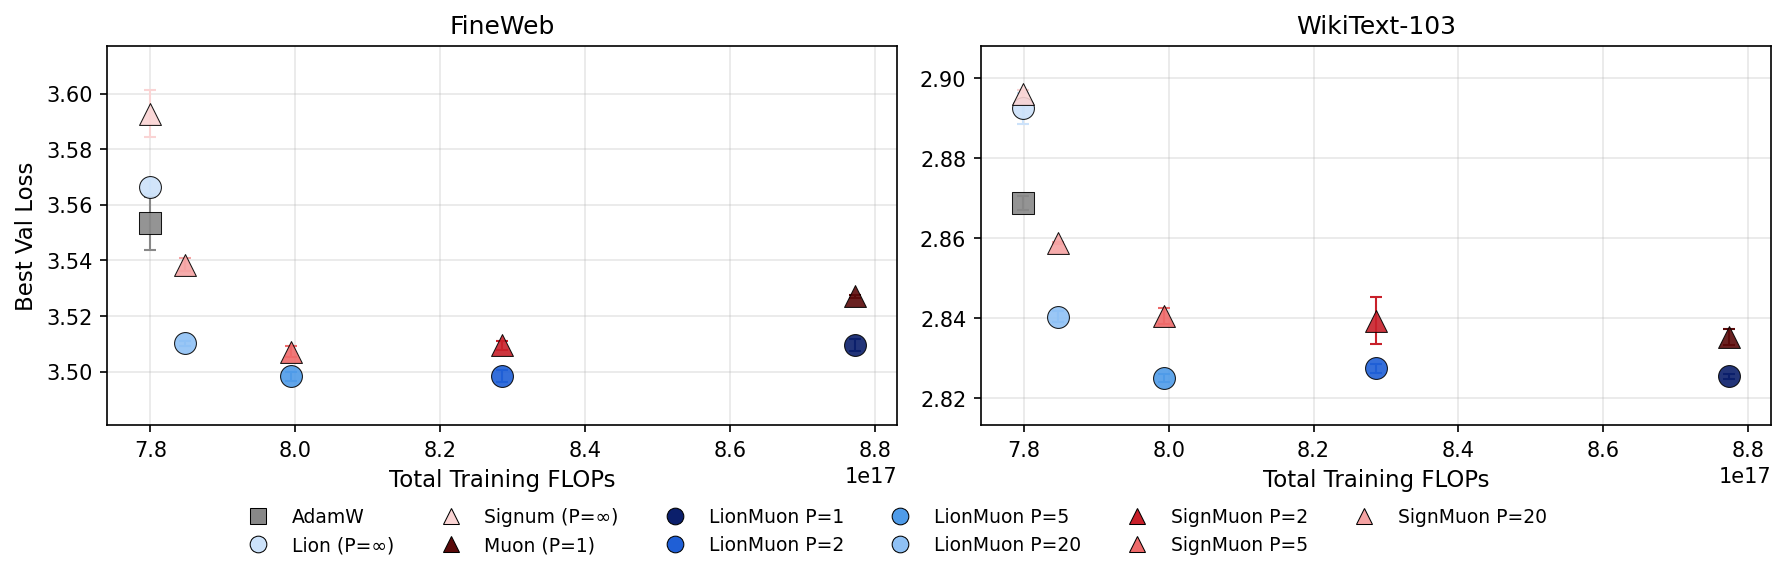
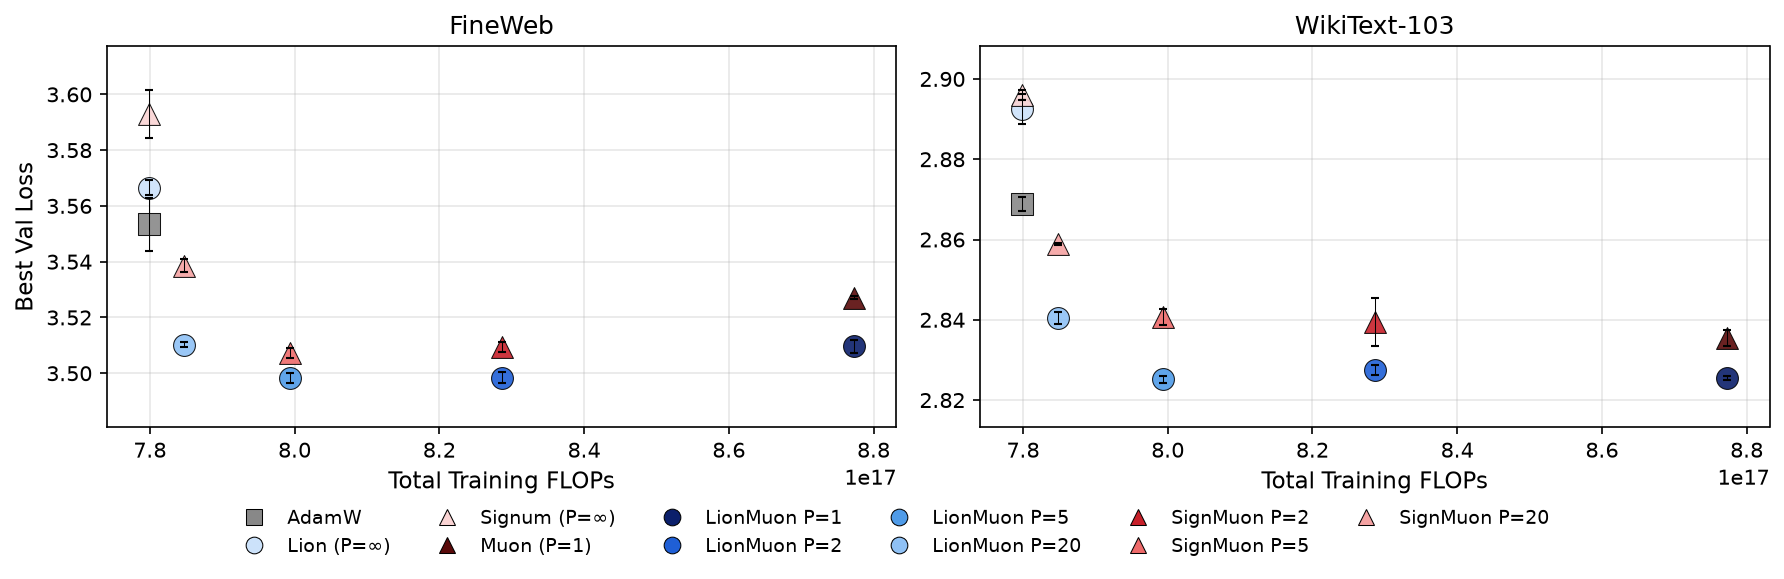
Plots: one error-bar style for all figures, and a portable path split
ERR_KW is now black, 0.5 pt (the marker edge width), 2 pt caps, drawn above the markers,
and the 124M and cost figures no longer override it. plot_124m.py split glob paths on '/',
which fails on Windows; it now takes the directory name with os.path.

diff --git a/scripts/plotting/plot_124m.py b/scripts/plotting/plot_124m.py
@@ -49,7 +49,8 @@ def runs(tag):
     cells = {}
     for src in ("exps", "exps_124m"):
         for f in glob.glob(f"{src}/{tag}124g_*_i64k_seed0/summary.json"):
-            m = re.match(rf"{tag}124g_p(\d+)_.*_b(09-09|09-099)_i64k_seed0$", f.split("/")[1])
+            m = re.match(rf"{tag}124g_p(\d+)_.*_b(09-09|09-099)_i64k_seed0$",
+                         os.path.basename(os.path.dirname(f)))
             v = best(f) if m else None
             if v is None:
                 continue
@@ -91,7 +92,7 @@ for ax, (tag, title) in zip(axes, [("fw", "FineWeb"), ("wt", "WikiText-103")]):
         s = style_for(label)
         ax.scatter(flops, st.mean(vals), color=s["color"], marker=s["marker"], **POINT_KW)
         if len(vals) > 1:
-            ax.errorbar(flops, st.mean(vals), yerr=st.stdev(vals), color=s["color"], **ERR_KW)
+            ax.errorbar(flops, st.mean(vals), yerr=st.stdev(vals), **ERR_KW)
         handles.setdefault(label, legend_handle(label))
     finish_axis(ax, "Total Training FLOPs", title)
     ax.ticklabel_format(style="scientific", axis="x", scilimits=(0, 0))

diff --git a/scripts/plotting/plot_results.py b/scripts/plotting/plot_results.py
@@ -89,7 +89,9 @@ STYLE_EXTRA = {                      # baselines that are not part of the two fa
     'MuonBP (P=5)': {'color': '#e69500', 'marker': 'v'},
 }
 POINT_KW = dict(s=110, zorder=5, alpha=0.9, edgecolor='black', linewidth=0.5)
-ERR_KW = dict(zorder=4, capsize=3, linewidth=1)
+# error bars: black, as thin as the marker edge, and drawn above the markers, because the
+# seed spread is often smaller than the marker itself
+ERR_KW = dict(color='black', zorder=6, capsize=2, linewidth=0.5)
 LEGEND_KW = dict(loc='lower center', fontsize=9, frameon=False, bbox_to_anchor=(0.5, -0.02))
 LABEL_FS, TITLE_FS = 11, 12
 

diff --git a/scripts/plotting/plot_loss_vs_cost.py b/scripts/plotting/plot_loss_vs_cost.py
@@ -163,8 +163,7 @@ def draw(ax, cells, xlabel, title):
         ax.scatter(x, st.mean(vals), marker=s["marker"],
                    color=s["color"] if done else "white", **kw)
         if len(vals) > 1:
-            # black and above the marker: the seed spread is often smaller than the marker itself
-            ax.errorbar(x, st.mean(vals), yerr=st.stdev(vals), color="black", **{**ERR_KW, "zorder": 6})
+            ax.errorbar(x, st.mean(vals), yerr=st.stdev(vals), **ERR_KW)
         handles[label] = legend_handle(label)
     finish_axis(ax, xlabel, title)
     return handles
